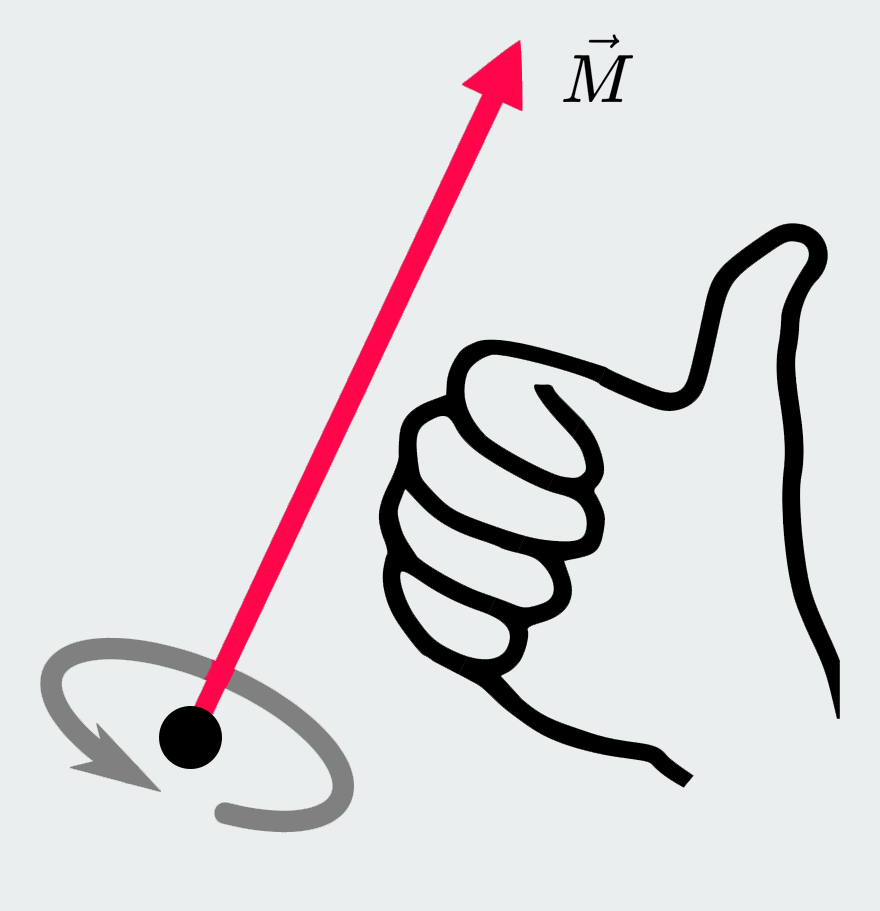
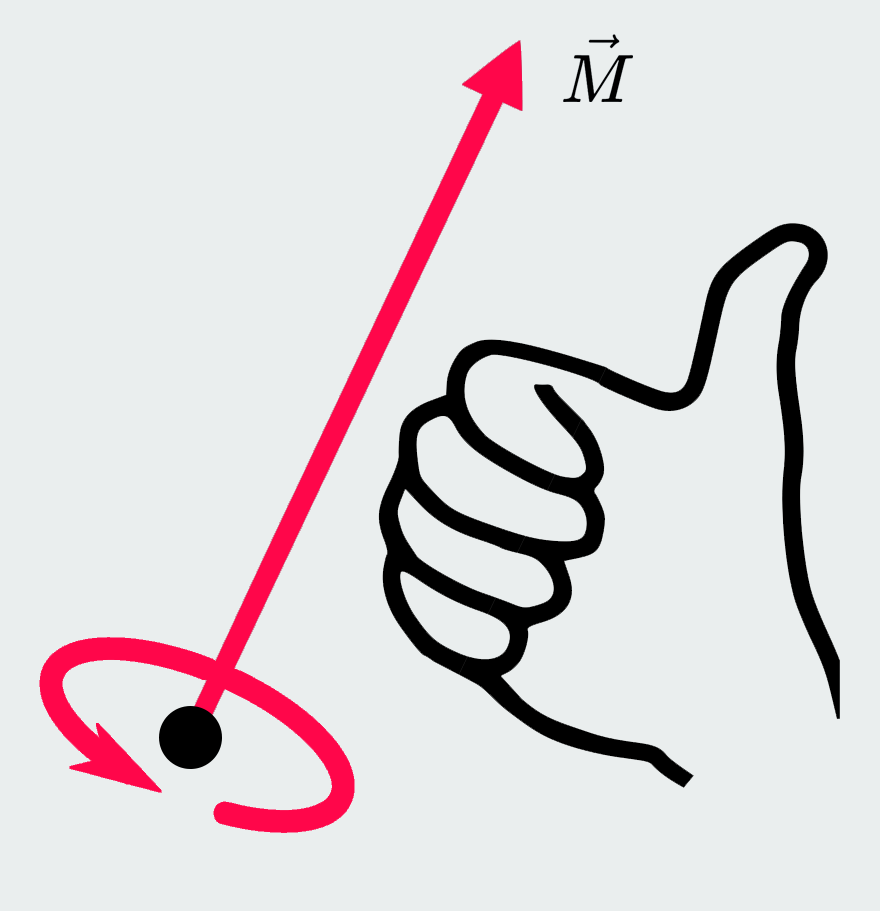
more work

Changed region(s): [[0.0307, 0.6762, 0.3989, 0.9221]]

diff --git a/src/components/ThreeCanvas3.vue b/src/components/ThreeCanvas3.vue
@@ -24,7 +24,7 @@
         :min="-Math.PI"
         :max="Math.PI + 0.5"
         :format="formatToRadians"
-        :step="0.1"
+        :step="0.5"
       />
     </div>
 
@@ -227,7 +227,7 @@ export default {
         const sphere = new Three.Mesh(geometrySphere, materialSphere);
         sphere.position.set(vecBottom.x, vecBottom.y, 0);
         this.scene.add(sphere);
-
+        line.renderOrder = 1005;
         this.scene.add(line);
         sceneObjects.push(line.name);
 
@@ -270,10 +270,12 @@ export default {
         let text3 = document.createElement("div");
         text3.className = "label";
         text3.style.color = "rgb(0,0,0)";
-        text3.style.backgroundColor = `#ffffff`;
+
         text3.style.padding = `0px 2px 0px 2px`;
         text3.style.fontWeight = "700";
+        text3.style.color = "#85CB33";
         text3.style.fontStyle = "italic";
+        text3.style.backgroundColor = `rgba(255, 255, 255, 0.9)`;
 
         text3.style.fontFamily = "Times New Roman";
         text3.textContent = `r`;
@@ -291,8 +293,9 @@ export default {
         text3_5.style.backgroundColor = `#ffffff`;
         text3_5.style.padding = `0px 2px 0px 2px`;
         text3_5.style.fontWeight = "700";
+        text3_5.style.color = "#85CB33";
         text3_5.style.fontFamily = "Times New Roman";
-
+        text3_5.style.backgroundColor = `rgba(255, 255, 255, 0.9)`;
         text3_5.style.fontStyle = "italic";
         text3_5.textContent = `r`;
         let label3_5 = new CSS2DObject(text3_5);
@@ -491,7 +494,8 @@ export default {
         text5.style.fontFamily = "Times New Roman";
         text5.style.fontStyle = "italic";
         text5.textContent = `M`;
-        text5.style.backgroundColor = `#ffffff`;
+        text5.style.color = "hsl(344, 100%, 51%)";
+        text5.style.backgroundColor = `rgba(255, 255, 255, 0.9)`;
         text5.style.borderRadius = "25%";
         text5.style.padding = `0px 2px 0px 2px`;
         text5.fontWeight = `bold`;
@@ -507,9 +511,11 @@ export default {
         text5_5.className = "label";
         text5_5.style.color = "rgb(0,0,0)";
         text5_5.textContent = `M`;
+        text5_5.style.color = "hsl(344, 100%, 51%)";
         text5_5.style.fontFamily = "Times New Roman";
         text5_5.style.fontStyle = "italic";
-        text5_5.style.backgroundColor = `#ffffff`;
+
+        text5_5.style.backgroundColor = `rgba(255, 255, 255, 0.9)`;
         text5_5.style.borderRadius = "25%";
         text5_5.style.padding = `0px 2px 0px 2px`;
         text5_5.fontWeight = `bold`;
@@ -542,7 +548,9 @@ export default {
           30, //Roundness of Tube
           true //closed
         );
+
         let line = new Three.Line(tubeGeometry, lineMaterial);
+        line.renderOrder = 1000;
         line.name = "Ollie thick line";
         // line.position.set(vecBottom);
         line.rotateZ(-this.length);
@@ -572,6 +580,7 @@ export default {
           dashedline.computeLineDistances();
           dashedline.rotateZ(-this.length);
           dashedline.name = "dashed-line";
+          dashedline.renderOrder = 1001;
           this.scene.add(dashedline);
           sceneObjects.push(dashedline.name);
         }
@@ -614,8 +623,9 @@ export default {
         text4.className = "label";
         text4.style.color = "rgb(0,0,0)";
         text4.textContent = `F`;
-        text4.style.backgroundColor = `#ffffff`;
-        text4.style.padding = `3px 2px 3px 2px`;
+        text4.style.color = "hsl(189, 92%, 49%)";
+        text4.style.backgroundColor = `rgba(255, 255, 255, 0.9)`;
+        // text4.style.padding = `3px 2px 3px 2px`;
         text4.style.fontFamily = "Times New Roman";
         text4.style.fontStyle = "italic";
         text4.style.fontWeight = "700";
@@ -630,9 +640,10 @@ export default {
         text4_5.className = "label";
         text4_5.style.color = "rgb(0,0,0)";
         text4_5.textContent = `F`;
+        text4_5.style.color = "hsl(189, 92%, 49%)";
         text4_5.style.fontFamily = "Times New Roman";
-        text4_5.style.backgroundColor = `#ffffff`;
-        text4_5.style.padding = `3px 2px 3px 2px`;
+        text4_5.style.backgroundColor = `rgba(255, 255, 255, 0.9)`;
+        // text4_5.style.padding = `3px 2px 3px 2px`;
         text4_5.style.fontWeight = "900";
         let label4_5 = new CSS2DObject(text4_5);
         label4_5.name = "F";
@@ -645,6 +656,7 @@ export default {
         // cone.position.set((0, 1, 1));
         cone.name = "arrow head";
         // cone.rotateZ(-this.length);
+        cone.renderOrder = 1002;
         this.scene.add(cone);
 
         sceneObjects.push(cone.name);
@@ -669,7 +681,7 @@ export default {
               const path = paths[i];
 
               const material = new Three.MeshBasicMaterial({
-                color: 0x808080,
+                color: 0xff0548,
                 side: Three.DoubleSide,
                 depthWrite: false,
               });
@@ -809,7 +821,7 @@ export default {
       createStillLine(
         new Three.Vector3(-3, -2, 0),
         new Three.Vector3(-0.15, -0.15, 0),
-        0x000000,
+        0x85cb33,
         false
       );
 
@@ -826,7 +838,7 @@ export default {
           createStillLine(
             new Three.Vector3(-3, -2, 0),
             new Three.Vector3(-0.15, -0.15, 0),
-            0x000000,
+            0x85cb33,
             false
           );
         }

diff --git a/src/components/ThreeCanvas2.vue b/src/components/ThreeCanvas2.vue
@@ -51,7 +51,7 @@ import {
   CSS2DRenderer,
   // CSS2DObject,
 } from "three/examples/jsm/renderers/CSS2DRenderer.js";
-import { OrbitControls } from "three/examples/jsm/controls/OrbitControls";
+
 
 export default {
   name: "ThreeCanvas2",
@@ -122,17 +122,6 @@ export default {
       this.gridHelper.rotateX((90 * Math.PI) / 180);
       this.gridHelper.position.set(-3, -2, 0);
       this.scene.add(this.gridHelper);
-
-      this.controls = new OrbitControls(this.camera, this.renderer.domElement);
-      this.controls.maxDistance = 1.5;
-      this.controls.minDistance = 1.3;
-      this.controls.minAzimuthAngle = 3;
-      this.controls.maxAzimuthAngle = 2;
-      this.controls.target.set(0, 0, 0);
-      this.controls.enablePan = false;
-      this.controls.autoRotate = true;
-      this.controls.autoRotateSpeed = 0.1;
-      this.controls.update();
 
       // Create Labels Here
 
